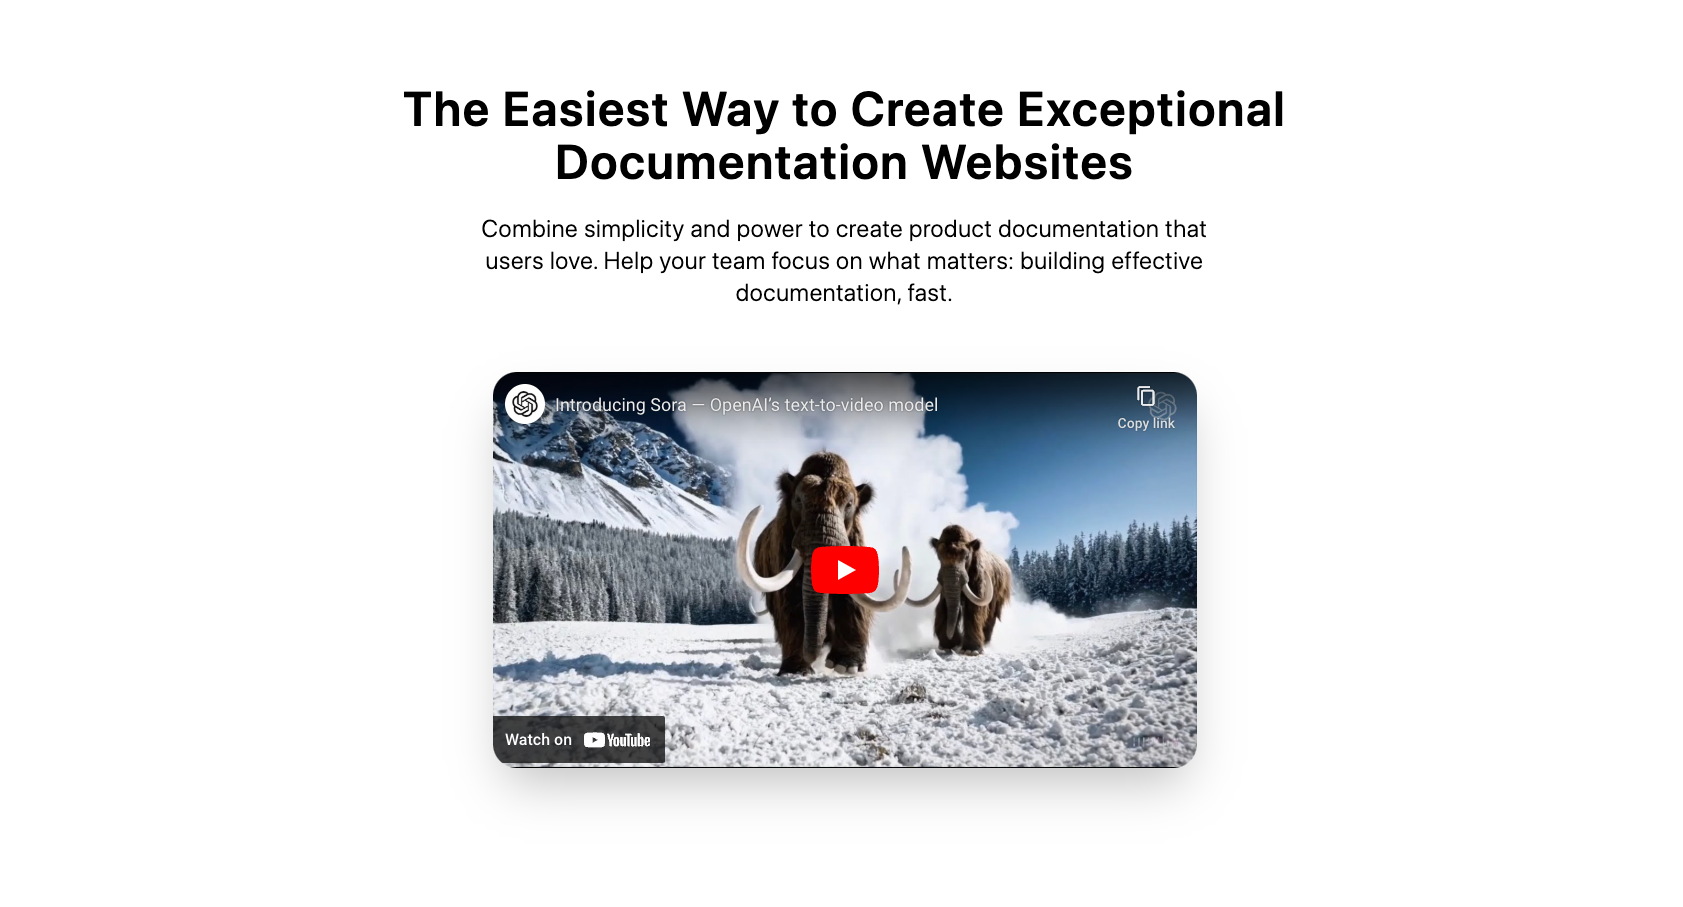
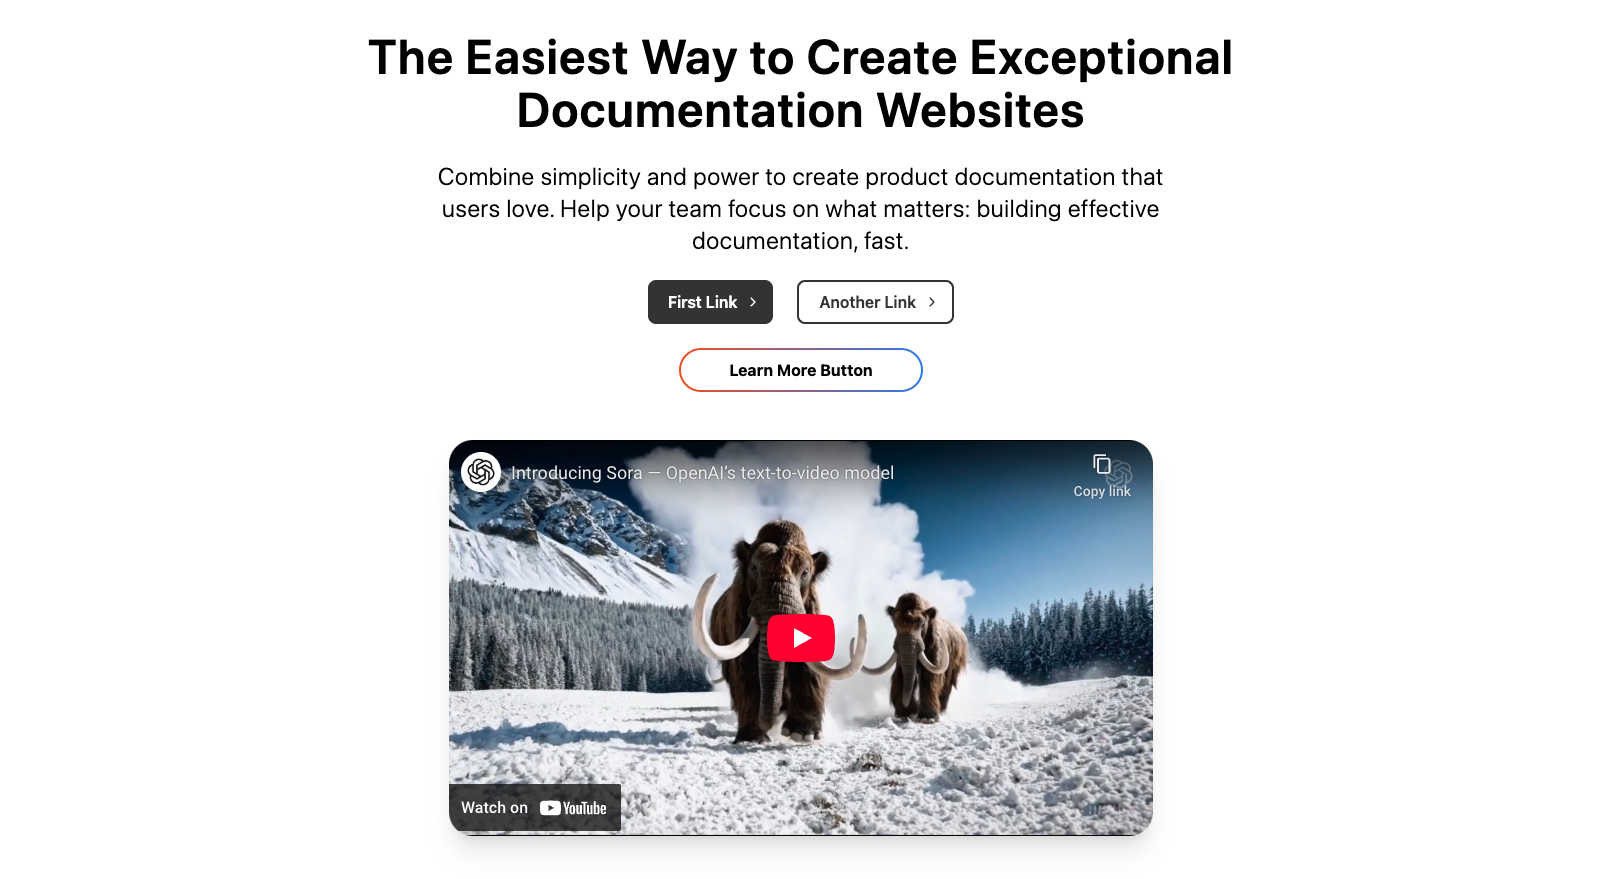
work on M1

Changed region(s): [[0.2807, 0.3993, 0.7174, 0.9829], [0.2183, 0.0307, 0.7798, 0.3686]]

diff --git a/src/M1/components/MediaHero/index.js b/src/M1/components/MediaHero/index.js
@@ -1,14 +1,39 @@
 import React from 'react';
 import Container from '../_utils/Container';
-import { Image, getPageProfile, Media, SafeHtml, twJoin } from '@uniwebcms/module-sdk';
+import { Image, getPageProfile, Media, SafeHtml, twJoin, Link } from '@uniwebcms/module-sdk';
+import { LuChevronRight } from 'react-icons/lu';
+
+const parseButtonContent = (content) => {
+    if (!content) return null;
+
+    const container = document.createElement('div');
+    container.innerHTML = content.trim();
+
+    const link = container.firstElementChild;
+
+    // is a link
+    if (link && link.tagName.toLowerCase() === 'a') {
+        return {
+            target: link.getAttribute('target') || null,
+            href: link.getAttribute('href') || null,
+            label: link.textContent || '',
+        };
+    }
+
+    return content;
+};
 
 export default function MediaHero(props) {
     const { block } = props;
 
-    const { banner, title, subtitle, paragraphs, videos, images } = block.getBlockContent();
+    const { banner, title, subtitle, paragraphs, videos, images, links, buttons } =
+        block.getBlockContent();
 
     const video = videos[0];
     const image = images[0];
+    const button = buttons[0];
+
+    const buttonLink = button ? parseButtonContent(button.content) : null;
 
     return (
         <Container className="w-screen min-h-96" py="lg">
@@ -37,7 +62,7 @@ export default function MediaHero(props) {
                         {subtitle}
                     </h2>
                 )}
-                {paragraphs.length ? (
+                {paragraphs.filter(Boolean).length ? (
                     <SafeHtml
                         value={paragraphs}
                         className="mt-4 lg:mt-6 lg:px-8 text-lg lg:text-xl text-center tracking-wide text-pretty"
@@ -45,17 +70,49 @@ export default function MediaHero(props) {
                         {subtitle}
                     </SafeHtml>
                 ) : null}
+                {links.length ? (
+                    <div className="flex flex-wrap gap-6 mt-6 justify-center">
+                        {links.map((link, index) => (
+                            <Link
+                                key={index}
+                                href={link.href}
+                                className={twJoin(
+                                    'pl-5 pr-3 py-2 text-sm lg:text-base font-semibold rounded-lg flex items-center gap-2 transition-all',
+                                    index === 0 &&
+                                        'bg-text-color/80 text-bg-color hover:bg-text-color',
+                                    index === 1 &&
+                                        'border-2 border-text-color/80 bg-bg-color text-text-color/80 hover:bg-text-color/10 hover:text-text-color'
+                                )}
+                            >
+                                {link.label}
+                                <LuChevronRight className="w-4 h-4 text-inherit" />
+                            </Link>
+                        ))}
+                    </div>
+                ) : null}
+                {/* Gradient border styled button */}
+                {buttonLink ? (
+                    <div className="mt-6 relative inline-flex rounded-3xl overflow-hidden hover:scale-105 transition-transform duration-500 ease-in-out">
+                        <div className="absolute inset-0 bg-gradient-to-r from-primary-600 to-secondary-500" />
+                        <Link
+                            href={buttonLink.href}
+                            className="relative py-2 px-8 lg:px-12 bg-bg-color m-0.5 rounded-3xl"
+                        >
+                            <span className="font-bold">{buttonLink.label}</span>
+                        </Link>
+                    </div>
+                ) : null}
                 {video || image ? (
                     <div
                         className={twJoin(
                             'w-full mx-auto mt-8',
-                            video ? 'lg:mt-16 max-w-[44rem]' : 'lg:mt-10 max-w-2xl'
+                            video ? 'lg:mt-12 max-w-[44rem]' : 'lg:mt-10 max-w-2xl'
                         )}
                     >
                         <Media
                             profile={getPageProfile()}
                             media={video || image}
-                            className={twJoin('shadow-2xl', video ? 'rounded-3xl' : '')}
+                            className={twJoin('shadow-xl', video ? 'rounded-3xl' : '')}
                         />
                     </div>
                 ) : null}

diff --git a/src/M1/components/Hero/index.js b/src/M1/components/Hero/index.js
@@ -1,6 +1,7 @@
 import React from 'react';
 import { twJoin, Image, getPageProfile, Link } from '@uniwebcms/module-sdk';
 import Container from '../_utils/Container';
+import { LuChevronRight } from 'react-icons/lu';
 
 export default function Hero(props) {
     const { block } = props;
@@ -84,20 +85,7 @@ export default function Hero(props) {
                                         )}
                                     >
                                         {link.label}
-                                        <svg
-                                            xmlns="http://www.w3.org/2000/svg"
-                                            width="24"
-                                            height="24"
-                                            viewBox="0 0 24 24"
-                                            fill="none"
-                                            stroke="currentColor"
-                                            strokeWidth="2"
-                                            strokeLinecap="round"
-                                            strokeLinejoin="round"
-                                            className="lucide lucide-chevron-right w-4 h-4 text-inherit"
-                                        >
-                                            <path d="m9 18 6-6-6-6"></path>
-                                        </svg>
+                                        <LuChevronRight className="w-4 h-4 text-inherit" />
                                     </Link>
                                 ))}
                             </div>

diff --git a/src/M1/components/CallToAction/Fancy/index.js b/src/M1/components/CallToAction/Fancy/index.js
@@ -85,12 +85,7 @@ export default function Fancy(props) {
                         <path d="M5 18H3"></path>
                     </svg>
                 </div>
-                <h2
-                    className={twJoin(
-                        'text-5xl md:text-6xl font-bold mb-6 bg-gradient-to-r bg-clip-text animate-gradient-x',
-                        'from-heading-color via-secondary-100 to-heading-color text-transparent'
-                    )}
-                >
+                <h2 className="text-5xl md:text-6xl font-bold mb-6 bg-gradient-to-r bg-clip-text animate-gradient-x from-heading-color via-secondary-100 to-heading-color text-transparent pb-[3px]">
                     {title}
                 </h2>
                 <SafeHtml
